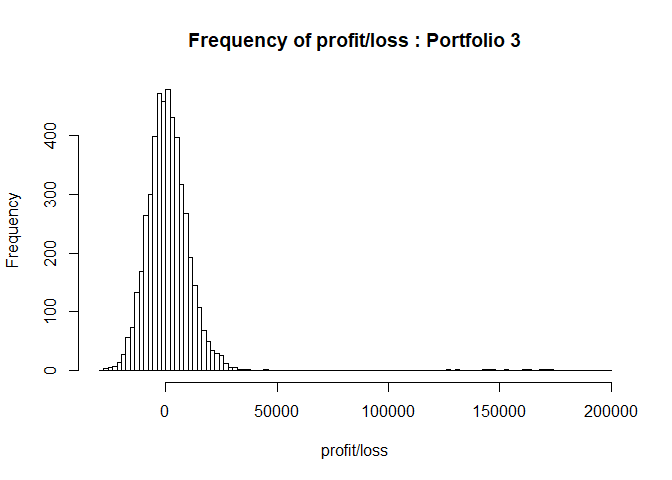
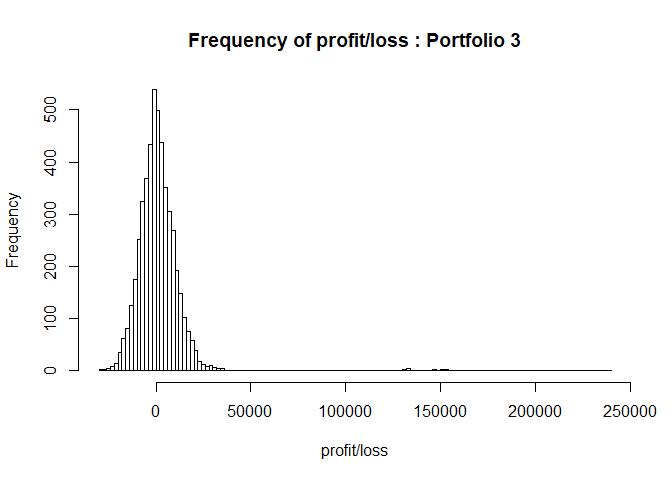
adding correct image

diff --git a/STAT380_Part2_Ex1_Bhat_Cui_Ishita_Srikanth.md b/STAT380_Part2_Ex1_Bhat_Cui_Ishita_Srikanth.md
@@ -5,7 +5,7 @@ August 8, 2017
 
 ![Probability Ques 1](https://github.com/iishita211/STA-380-Part-2-Exercise-1/blob/master/r%20probability_4.jpg)
 
-![Probability Ques 2](https://github.com/iishita211/STA-380-Part-2-Exercise-1/blob/master/r%20probability_3.jpg)
+![Probability Ques 2](https://github.com/iishita211/STA-380-Part-2-Exercise-1/blob/master/r%20probability_2.jpg)
 
 ![Probability Ques 2 cont.](https://github.com/iishita211/STA-380-Part-2-Exercise-1/blob/master/r%20probability_3.jpg)
 
@@ -460,20 +460,20 @@ hist(sim1[,n_days]- initial_wealth, breaks=100, main='Frequency of profit/loss :
 mean(sim1[,n_days]) 
 ```
 
-    ## [1] 100962.2
+    ## [1] 100929.7
 
 ``` r
 var(sim1[,n_days])
 ```
 
-    ## [1] 30598516
+    ## [1] 30298982
 
 ``` r
 quantile(sim1[,n_days], 0.05) - initial_wealth
 ```
 
     ##        5% 
-    ## -6342.018
+    ## -6193.227
 
 According to the simulation, the 4-week 5% value at risk is about -$6600.
 
@@ -515,13 +515,13 @@ hist(sim2[,n_days]- initial_wealth, breaks=100, main='Frequency of profit/loss :
 mean(sim2[,n_days]) 
 ```
 
-    ## [1] 100602.2
+    ## [1] 100594.7
 
 ``` r
 var(sim2[,n_days])
 ```
 
-    ## [1] 4688180
+    ## [1] 5007218
 
 The variance is far smaller than that of portfolio 1
 
@@ -531,7 +531,7 @@ quantile(sim2[,n_days], 0.05) - initial_wealth
 ```
 
     ##        5% 
-    ## -2854.741
+    ## -2946.111
 
 According to the simulation, the 4-week 5% value at risk is about -$-3100 (much better than the even split)
 
@@ -575,20 +575,20 @@ hist(sim3[,n_days]- initial_wealth, breaks=100, main='Frequency of profit/loss :
 mean(sim3[,n_days]) 
 ```
 
-    ## [1] 102020.7
+    ## [1] 101530.1
 
 ``` r
 var(sim3[,n_days])
 ```
 
-    ## [1] 267707488
+    ## [1] 211787753
 
 ``` r
 quantile(sim3[,n_days], 0.05) - initial_wealth
 ```
 
     ##        5% 
-    ## -13004.39
+    ## -13401.43
 
 According to our simulation, the 4-week value at risk is about -$12900, which shows far more risk than the above portfolios.
 
@@ -603,14 +603,14 @@ means<-c(mean(sim1[,n_days]) , mean(sim2[,n_days]),mean(sim3[,n_days]))
 means
 ```
 
-    ## [1] 100962.2 100602.2 102020.7
+    ## [1] 100929.7 100594.7 101530.1
 
 ``` r
 vars<-c(var(sim1[,n_days]),var(sim2[,n_days]),var(sim3[,n_days]))
 vars
 ```
 
-    ## [1]  30598516   4688180 267707488
+    ## [1]  30298982   5007218 211787753
 
 ``` r
 hist(sim1[,n_days]- initial_wealth, breaks=100, main='Frequency of profit/loss : Portfolio 1', xlab = 'profit/loss')
@@ -639,7 +639,7 @@ VaRs
 ```
 
     ##         5%         5%         5% 
-    ##  -6342.018  -2854.741 -13004.391
+    ##  -6193.227  -2946.111 -13401.433
 
 -   Suggestions for investment
 
@@ -734,10 +734,41 @@ mu = attr(SM_scaled,"scaled:center")
 sigma = attr(SM_scaled,"scaled:scale")
 
 pc1 = prcomp(SM_scaled)
-#summary(pc1)
+summary(pc1)
+```
+
+    ## Importance of components%s:
+    ##                           PC1     PC2     PC3    PC4     PC5     PC6
+    ## Standard deviation     2.0993 1.66487 1.59129 1.5295 1.46750 1.28559
+    ## Proportion of Variance 0.1296 0.08152 0.07448 0.0688 0.06334 0.04861
+    ## Cumulative Proportion  0.1296 0.21114 0.28562 0.3544 0.41776 0.46637
+    ##                            PC7     PC8     PC9    PC10    PC11    PC12
+    ## Standard deviation     1.21644 1.17388 1.15047 1.05257 0.99331 0.96364
+    ## Proportion of Variance 0.04352 0.04053 0.03893 0.03259 0.02902 0.02731
+    ## Cumulative Proportion  0.50989 0.55042 0.58935 0.62194 0.65096 0.67827
+    ##                           PC13   PC14    PC15    PC16    PC17    PC18
+    ## Standard deviation     0.96070 0.9347 0.92207 0.90804 0.85339 0.83369
+    ## Proportion of Variance 0.02715 0.0257 0.02501 0.02425 0.02142 0.02044
+    ## Cumulative Proportion  0.70541 0.7311 0.75612 0.78037 0.80179 0.82223
+    ##                           PC19    PC20    PC21    PC22    PC23    PC24
+    ## Standard deviation     0.80573 0.75319 0.69407 0.68451 0.65246 0.64867
+    ## Proportion of Variance 0.01909 0.01668 0.01417 0.01378 0.01252 0.01238
+    ## Cumulative Proportion  0.84132 0.85801 0.87218 0.88596 0.89848 0.91085
+    ##                           PC25    PC26    PC27    PC28    PC29    PC30
+    ## Standard deviation     0.63658 0.63183 0.61511 0.59922 0.59394 0.55072
+    ## Proportion of Variance 0.01192 0.01174 0.01113 0.01056 0.01038 0.00892
+    ## Cumulative Proportion  0.92277 0.93451 0.94564 0.95620 0.96658 0.97550
+    ##                          PC31    PC32    PC33    PC34
+    ## Standard deviation     0.4845 0.47782 0.43809 0.42201
+    ## Proportion of Variance 0.0069 0.00672 0.00564 0.00524
+    ## Cumulative Proportion  0.9824 0.98912 0.99476 1.00000
+
+``` r
 #par(mfrow=c(1,2))
 #plot(SM_scaled, xlim=c(-2.5,2.5), ylim=c(-2.5,2.5))
+```
 
+``` r
 # Try Hierarchical Clustering
 SM_scaled_transpose=t(SM_scaled)
 
@@ -750,7 +781,7 @@ hier_sm_t = hclust(SM_scaled_dist, method='average')
 plot(hier_sm_t, cex=0.8)
 ```
 
-![](STAT380_Part2_Ex1_Bhat_Cui_Ishita_Srikanth_files/figure-markdown_github-ascii_identifiers/unnamed-chunk-34-1.png)
+![](STAT380_Part2_Ex1_Bhat_Cui_Ishita_Srikanth_files/figure-markdown_github-ascii_identifiers/unnamed-chunk-35-1.png)
 
 ``` r
 ## Kmeans method to find interesting associations within groups
@@ -766,81 +797,12 @@ plot(1:k.max, wss,
      ylab="Total within-clusters sum of squares")
 ```
 
-![](STAT380_Part2_Ex1_Bhat_Cui_Ishita_Srikanth_files/figure-markdown_github-ascii_identifiers/unnamed-chunk-34-2.png)
+![](STAT380_Part2_Ex1_Bhat_Cui_Ishita_Srikanth_files/figure-markdown_github-ascii_identifiers/unnamed-chunk-36-1.png)
 
 ``` r
 #make K clusters
 cluster_all <- kmeanspp(SM_scaled, k=6, nstart=50)
 cluster_all$center[1,]
-```
-
-    ##   current_events           travel    photo_sharing          tv_film 
-    ##      0.019638206     -0.153589376      0.002291646     -0.049831814 
-    ##    sports_fandom         politics             food           family 
-    ##     -0.196806571     -0.176309500      0.415359828     -0.069501886 
-    ##  home_and_garden            music             news    online_gaming 
-    ##      0.169663015      0.051469402     -0.049110034     -0.130862135 
-    ##         shopping health_nutrition      college_uni   sports_playing 
-    ##      0.052766362      2.093713116     -0.207522028     -0.025632200 
-    ##          cooking              eco        computers         business 
-    ##      0.371432702      0.532759430     -0.075368701      0.071056625 
-    ##         outdoors           crafts       automotive              art 
-    ##      1.615660280      0.094193809     -0.121654546      0.011485213 
-    ##         religion           beauty        parenting           dating 
-    ##     -0.174364062     -0.209977167     -0.100264020      0.181788655 
-    ##           school personal_fitness          fashion   small_business 
-    ##     -0.143401555      2.070945307     -0.108249268     -0.065515075 
-    ##             spam            adult 
-    ##      0.003346418     -0.001584891
-
-``` r
-cluster_all$center[2,]
-```
-
-    ##   current_events           travel    photo_sharing          tv_film 
-    ##       0.18775203      -0.03680769       1.25305434      -0.02859905 
-    ##    sports_fandom         politics             food           family 
-    ##      -0.21470461      -0.12508340      -0.19912126       0.03485210 
-    ##  home_and_garden            music             news    online_gaming 
-    ##       0.14011507       0.52807920      -0.07190188      -0.06135653 
-    ##         shopping health_nutrition      college_uni   sports_playing 
-    ##       0.33660930      -0.06596576      -0.02830122       0.17170436 
-    ##          cooking              eco        computers         business 
-    ##       2.60858576       0.07648315       0.06359174       0.25681261 
-    ##         outdoors           crafts       automotive              art 
-    ##       0.02275679       0.14302548       0.05635440       0.11386586 
-    ##         religion           beauty        parenting           dating 
-    ##      -0.13151146       2.41374452      -0.08262480       0.13362898 
-    ##           school personal_fitness          fashion   small_business 
-    ##       0.18662311      -0.04670174       2.49234162       0.23206970 
-    ##             spam            adult 
-    ##      -0.03548519       0.00436950
-
-``` r
-cluster_all$center[3,]
-```
-
-    ##   current_events           travel    photo_sharing          tv_film 
-    ##     -0.064596032     -0.213018719     -0.151425757     -0.049035274 
-    ##    sports_fandom         politics             food           family 
-    ##     -0.287572776     -0.255730671     -0.353961101     -0.257261744 
-    ##  home_and_garden            music             news    online_gaming 
-    ##     -0.111185018     -0.124043005     -0.243249375     -0.233404079 
-    ##         shopping health_nutrition      college_uni   sports_playing 
-    ##     -0.061161953     -0.327090480     -0.228191739     -0.230135009 
-    ##          cooking              eco        computers         business 
-    ##     -0.334275122     -0.159861312     -0.233029570     -0.124109370 
-    ##         outdoors           crafts       automotive              art 
-    ##     -0.314124678     -0.186919505     -0.182075498     -0.060642380 
-    ##         religion           beauty        parenting           dating 
-    ##     -0.297554552     -0.267519126     -0.304886088     -0.091888934 
-    ##           school personal_fitness          fashion   small_business 
-    ##     -0.244818727     -0.333542495     -0.262883446     -0.095327811 
-    ##             spam            adult 
-    ##      0.004585328      0.010405002
-
-``` r
-cluster_all$center[4,]
 ```
 
     ##   current_events           travel    photo_sharing          tv_film 
@@ -863,7 +825,7 @@ cluster_all$center[4,]
     ##     0.0280967942     0.0241600638
 
 ``` r
-cluster_all$center[5,]
+cluster_all$center[2,]
 ```
 
     ##   current_events           travel    photo_sharing          tv_film 
@@ -886,7 +848,53 @@ cluster_all$center[5,]
     ##     -0.014661068      0.005548496
 
 ``` r
-cluster_all$center[6,]
+cluster_all$center[3,]
+```
+
+    ##   current_events           travel    photo_sharing          tv_film 
+    ##      0.019638206     -0.153589376      0.002291646     -0.049831814 
+    ##    sports_fandom         politics             food           family 
+    ##     -0.196806571     -0.176309500      0.415359828     -0.069501886 
+    ##  home_and_garden            music             news    online_gaming 
+    ##      0.169663015      0.051469402     -0.049110034     -0.130862135 
+    ##         shopping health_nutrition      college_uni   sports_playing 
+    ##      0.052766362      2.093713116     -0.207522028     -0.025632200 
+    ##          cooking              eco        computers         business 
+    ##      0.371432702      0.532759430     -0.075368701      0.071056625 
+    ##         outdoors           crafts       automotive              art 
+    ##      1.615660280      0.094193809     -0.121654546      0.011485213 
+    ##         religion           beauty        parenting           dating 
+    ##     -0.174364062     -0.209977167     -0.100264020      0.181788655 
+    ##           school personal_fitness          fashion   small_business 
+    ##     -0.143401555      2.070945307     -0.108249268     -0.065515075 
+    ##             spam            adult 
+    ##      0.003346418     -0.001584891
+
+``` r
+cluster_all$center[4,]
+```
+
+    ##   current_events           travel    photo_sharing          tv_film 
+    ##       0.18775203      -0.03680769       1.25305434      -0.02859905 
+    ##    sports_fandom         politics             food           family 
+    ##      -0.21470461      -0.12508340      -0.19912126       0.03485210 
+    ##  home_and_garden            music             news    online_gaming 
+    ##       0.14011507       0.52807920      -0.07190188      -0.06135653 
+    ##         shopping health_nutrition      college_uni   sports_playing 
+    ##       0.33660930      -0.06596576      -0.02830122       0.17170436 
+    ##          cooking              eco        computers         business 
+    ##       2.60858576       0.07648315       0.06359174       0.25681261 
+    ##         outdoors           crafts       automotive              art 
+    ##       0.02275679       0.14302548       0.05635440       0.11386586 
+    ##         religion           beauty        parenting           dating 
+    ##      -0.13151146       2.41374452      -0.08262480       0.13362898 
+    ##           school personal_fitness          fashion   small_business 
+    ##       0.18662311      -0.04670174       2.49234162       0.23206970 
+    ##             spam            adult 
+    ##      -0.03548519       0.00436950
+
+``` r
+cluster_all$center[5,]
 ```
 
     ##   current_events           travel    photo_sharing          tv_film 
@@ -909,34 +917,57 @@ cluster_all$center[6,]
     ##     -0.007473870     -0.092611297
 
 ``` r
+cluster_all$center[6,]
+```
+
+    ##   current_events           travel    photo_sharing          tv_film 
+    ##     -0.064596032     -0.213018719     -0.151425757     -0.049035274 
+    ##    sports_fandom         politics             food           family 
+    ##     -0.287572776     -0.255730671     -0.353961101     -0.257261744 
+    ##  home_and_garden            music             news    online_gaming 
+    ##     -0.111185018     -0.124043005     -0.243249375     -0.233404079 
+    ##         shopping health_nutrition      college_uni   sports_playing 
+    ##     -0.061161953     -0.327090480     -0.228191739     -0.230135009 
+    ##          cooking              eco        computers         business 
+    ##     -0.334275122     -0.159861312     -0.233029570     -0.124109370 
+    ##         outdoors           crafts       automotive              art 
+    ##     -0.314124678     -0.186919505     -0.182075498     -0.060642380 
+    ##         religion           beauty        parenting           dating 
+    ##     -0.297554552     -0.267519126     -0.304886088     -0.091888934 
+    ##           school personal_fitness          fashion   small_business 
+    ##     -0.244818727     -0.333542495     -0.262883446     -0.095327811 
+    ##             spam            adult 
+    ##      0.004585328      0.010405002
+
+``` r
 qplot(beauty, fashion, data=Social_Market2, color=factor(cluster_all$cluster))
 ```
 
-![](STAT380_Part2_Ex1_Bhat_Cui_Ishita_Srikanth_files/figure-markdown_github-ascii_identifiers/unnamed-chunk-34-3.png)
+![](STAT380_Part2_Ex1_Bhat_Cui_Ishita_Srikanth_files/figure-markdown_github-ascii_identifiers/unnamed-chunk-36-2.png)
 
 ``` r
 qplot(religion, parenting, data=Social_Market2, color=factor(cluster_all$cluster))
 ```
 
-![](STAT380_Part2_Ex1_Bhat_Cui_Ishita_Srikanth_files/figure-markdown_github-ascii_identifiers/unnamed-chunk-34-4.png)
+![](STAT380_Part2_Ex1_Bhat_Cui_Ishita_Srikanth_files/figure-markdown_github-ascii_identifiers/unnamed-chunk-36-3.png)
 
 ``` r
 qplot(personal_fitness, health_nutrition,  data=Social_Market, color=factor(cluster_all$cluster))
 ```
 
-![](STAT380_Part2_Ex1_Bhat_Cui_Ishita_Srikanth_files/figure-markdown_github-ascii_identifiers/unnamed-chunk-34-5.png)
+![](STAT380_Part2_Ex1_Bhat_Cui_Ishita_Srikanth_files/figure-markdown_github-ascii_identifiers/unnamed-chunk-36-4.png)
 
 ``` r
 qplot(politics, travel, data=Social_Market, color=factor(cluster_all$cluster))
 ```
 
-![](STAT380_Part2_Ex1_Bhat_Cui_Ishita_Srikanth_files/figure-markdown_github-ascii_identifiers/unnamed-chunk-34-6.png)
+![](STAT380_Part2_Ex1_Bhat_Cui_Ishita_Srikanth_files/figure-markdown_github-ascii_identifiers/unnamed-chunk-36-5.png)
 
 ``` r
 qplot(college_uni, online_gaming, data=Social_Market, color=factor(cluster_all$cluster))
 ```
 
-![](STAT380_Part2_Ex1_Bhat_Cui_Ishita_Srikanth_files/figure-markdown_github-ascii_identifiers/unnamed-chunk-34-7.png)
+![](STAT380_Part2_Ex1_Bhat_Cui_Ishita_Srikanth_files/figure-markdown_github-ascii_identifiers/unnamed-chunk-36-6.png)
 
 After studying the various things that the twitter followers talk about, some interesting traits were discovered among the followers, revealed through the K-means clustering tequnique. For Cluster number 1, a higher values for fashion, beauty, shopping and cooking can be seen. This suggests that twitter users in this particular group maybe trendy millenials. Cluster 2 shows a more family oriented group of people who seem to care most about parenting, school, crafts, food, religion and family.cluster 3 explains the interests of a group of possibly young, outdoorsy people who are perhaps committed to a healthy lifestyle, discussing topics like personal fitness and health and nutrition.Cluster 4 indicates a group of educated people whose interests are evident in the high values for computers, news, politics and travel. Cluster 5 could be depicting college adults with interests in online gaming, sports and university related activities.Finally, cluster 6 clubs the remaining followers together in a general category, where no particular interest stands out.
 
